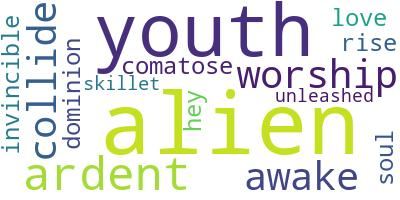
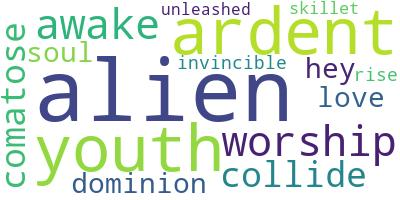
Ajustes na pergunta 3

diff --git a/graficos.py b/graficos.py
@@ -256,24 +256,24 @@ def conotacao_das_palavras(dataframe, sentido_palavras):
         string_negativa, string_positiva, df_negativas, df_positivas = pg.positividade(dataframe, sentido_palavras)
 
         # Máscara que vai mudar o formato da imagem
-        titulomusicaetmask = np.array(Image.open("imagens/Grupo 3/Moldes/caveira.jpg"))
+        mascara = np.array(Image.open("imagens/Grupo 3/Moldes/demonio.jpg"))
         # Gerando a wordcloud
-        wctitulo = WordCloud(background_color="gray", mask=titulomusicaetmask, contour_width=3, contour_color="black")
-        wctitulo.generate(string_negativa)
+        wc = WordCloud(background_color="white", mask=mascara)
+        wc.generate(string_negativa)
         # Mudando as cores.
-        cores = ImageColorGenerator(titulomusicaetmask)
-        wctitulo.recolor(color_func=cores)
-        wctitulo.to_file("imagens/Grupo 3/Palavras negativas.jpg")
+        cores = ImageColorGenerator(mascara)
+        wc.recolor(color_func=cores)
+        wc.to_file("imagens/Grupo 3/Palavras negativas.jpg")
 
         # Máscara que vai mudar o formato da imagem
-        titulomusicaetmask = np.array(Image.open("imagens/Grupo 3/Moldes/pomba.jpg"))
+        mascara = np.array(Image.open("imagens/Grupo 3/Moldes/pombinha.jpg"))
         # Gerando a wordcloud
-        wctitulo = WordCloud(background_color="white", mask=titulomusicaetmask, contour_width=3, contour_color="black")
-        wctitulo.generate(string_positiva)
+        wc = WordCloud(background_color="white", mask=mascara)
+        wc.generate(string_positiva)
         # Mudando as cores.
-        cores = ImageColorGenerator(titulomusicaetmask)
-        wctitulo.recolor(color_func=cores)
-        wctitulo.to_file("imagens/Grupo 3/Palavras positivas.jpg")
+        cores = ImageColorGenerator(mascara)
+        wc.recolor(color_func=cores)
+        wc.to_file("imagens/Grupo 3/Palavras positivas.jpg")
     except FileNotFoundError:
         print("A máscara para a wordcloud não foi encontrada.")
 conotacao_das_palavras(dataframe, sentido_palavras)
